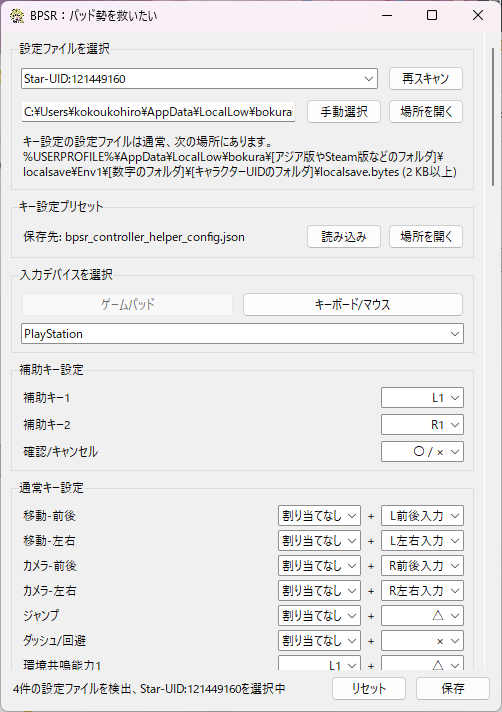
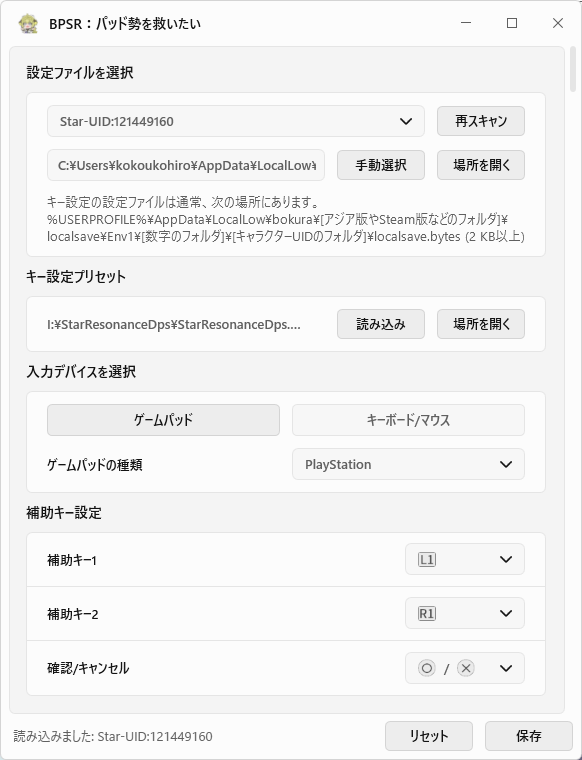
Update plugin upgrade instructions and screenshot
Document updating KeybindTool.dll through the Plugins tab while preserving settings, and refresh the screenshot.

diff --git a/README.md b/README.md
@@ -21,7 +21,7 @@ Blue Protocol: Star Resonanceのパッド用ボタン配置を編集するため
 
 ### 更新
 
-StarResonanceDpsを閉じて、`Plugins\KeybindTool\KeybindTool.dll`を新しいファイルで上書きします。
+新しい`KeybindTool.dll`を「プラグイン」タブの「プラグインを追加」で選び、StarResonanceDpsを再起動します。設定はそのまま残ります。
 
 ### 注意事項
 
